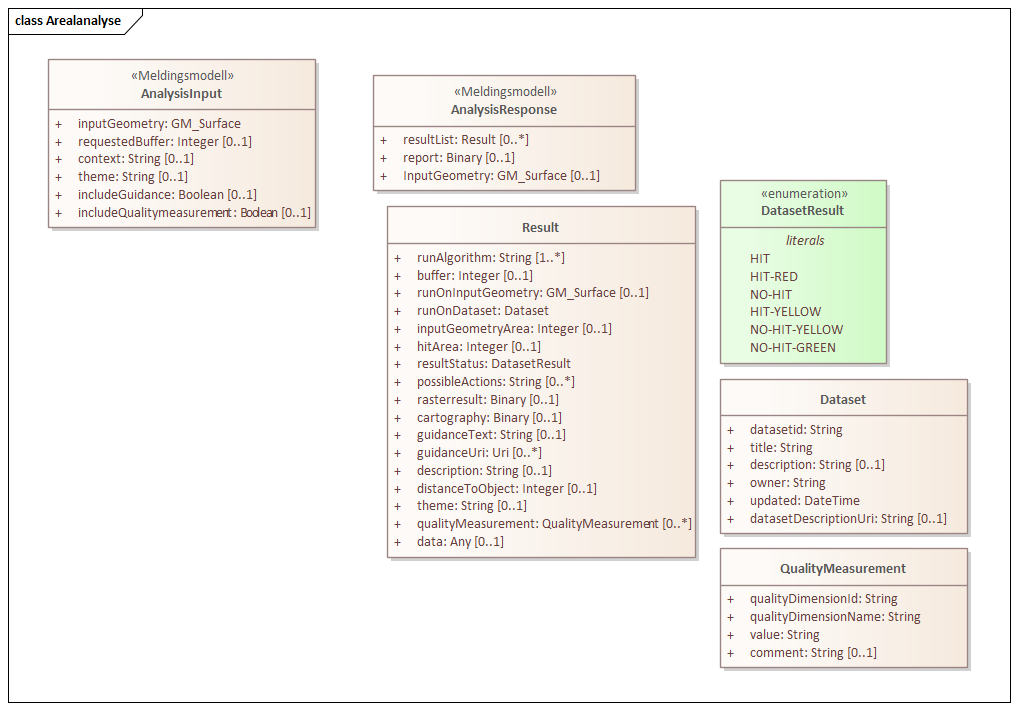
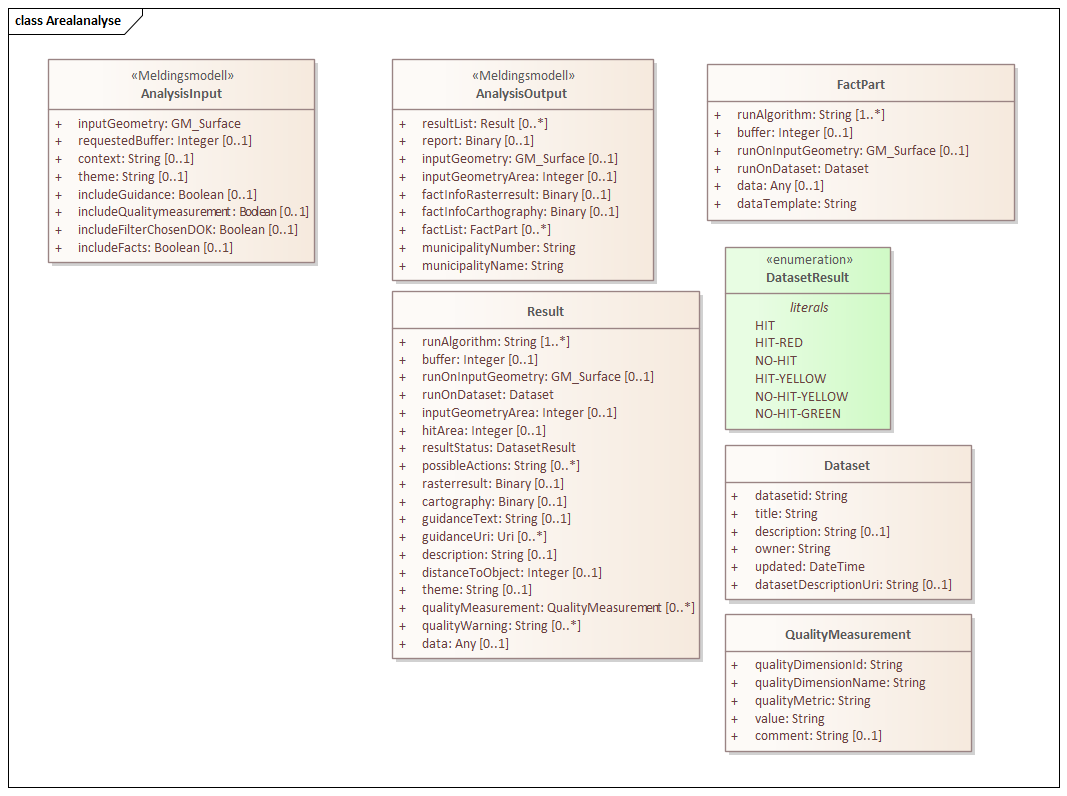
oppdatert dokumentasjon og diagram

diff --git a/spec.md b/spec.md
@@ -221,13 +221,13 @@ output = [no.geonorge.dokanalyse.analysisresponse.v0.1.schema.json](schema/no.ge
 | runOnDataset      | [Dataset](#dataset)   | 1 | kjørtPåDatasett   | Beskrivelse av datasett analysen er kjørt mot.
 | inputGeometryArea | Integer    | 0..1  | områdeareal   | beregner arealet i kvm på valgte område for analyse.
 | hitArea | Integer    | 0..1  | treffareal   | beregner arealet i kvm på datasett som treffer innenfor analyseområdet.
-| resultStatus      | DatasetResult | 1 | statusResultat    | resultat av analysen om det er treff eller ikke treff. (HIT, NO-HIT, HIT-RED, HIT-YELLOW, NO-HIT-YELLOW, NO-HIT-GREEN)
+| resultStatus      | DatasetResult | 1 | statusResultat    | resultat av analysen om det er treff eller ikke treff. (HIT, NO-HIT, HIT-RED, HIT-YELLOW, NO-HIT-YELLOW, NO-HIT-GREEN). Fargene kan brukes for å koble opp mot Grad av konflikt som angis i Geolett veiledningstekst register
 | possibleActions   | String    | 0..*  | muligeTiltak  | liste over mulige tiltak. Kan være hentet fra Geolett register.
-| rasterResult      | Binary    | 0..1  | kartutsnitt   | rasterbilde av data/resultat. Vurdere WMS referanse isteden for base64 string?
-| cartography       | Binary    | 0..1  | tegnforklaring   | viser tegneregler for resultatet. Vurdere WMS referanse isteden for base64 string?
+| rasterResult      | Binary    | 0..1  | kartutsnitt   | rasterbilde av data/resultat eller referanse til WMS.
+| cartography       | Binary    | 0..1  | tegnforklaring   | viser tegneregler for resultatet.
 | guidanceText      | String    | 0..1  | veiledningsTekst   | Kan være hentet fra Geolett register.
-| guidanceUri       | [Uri](#Uri)    | 0..*  | veiledningslenke   | Veiledningsreferanser. Kan være hentet fra Geolett register.
-| description       | String    | 0..1  | forklarendeTekst   | beskrivelse av resultat. Kan være hentet fra Geolett register.
+| guidanceUri       | [Uri](#Uri)    | 0..*  | veiledningslenke   | Veiledningsreferanser. Kan være hentet fra Geolett veiledningstekst register.
+| description       | String    | 0..1  | forklarendeTekst   | beskrivelse av resultat. Kan være hentet fra Geolett veiledningstekst register.
 | distanceToObject  | Integer   | 0..1  | avstandTilObjekt  | nærmeste avstand fra område til objekt. Mest relevant om det ikke er treff innenfor området som forespørres. Anbefaling 83 i teknologisk rammeverk.
 | theme             | String    | 0..1  | tema   | DOK tema for datasettet.
 | qualityMeasurement | [QualityMeasurement](#qualitymeasurement) | 0..* | kvalitetsmåling | liste over relevante kvaliteter slik som fullstendighet (dekningskart), egnethet (fra DOK), etc
@@ -249,10 +249,11 @@ output = [no.geonorge.dokanalyse.analysisresponse.v0.1.schema.json](schema/no.ge
 
 | Navn      | Type | Multiplisitet | Alias | Beskrivelse |
 | ----------- | ----------- | ----------- | ----------- | ----------- |
-| qualityDimensionId      | String   |  1 |  kvalitetsdimensjonId | kvalitetsdimensjoner slik som fullstendighet_dekningskart, egnethet_reguleringsplan, etc.
+| qualityDimensionId      | String   |  1 |  kvalitetsdimensjonId | kvalitetsdimensjoner slik som Fullstendighet, Egenskapskvalitet, Logisk konsistens, Kvalitet på tidfesting, Stedfestingsnøyaktighet, Egnethet, etc.
 | qualityDimensionName     | String   |  1 |  kvalitetsdimensjonNavn | kvalitetsdimensjoner i klart språk.
-| value          | String   | 1  | verdi        | verdi for kvalitetsdimensjon.
-| comment          | String   | 0..1  | kommentar        | kommentar til kvalitetsdimensjon.
+| qualityMetric     | String   |  1 |  kvalitetsmål | brukes til å representere et kvalitetsmål som fullstendighet_dekningskart, egnethet_reguleringsplan, etc.
+| value          | String   | 1  | verdi        | verdi for kvalitetsmåling som feks Ikke kartlagt, Kartlagt med funn for fullstendighet_dekningskart.
+| comment          | String   | 0..1  | kommentar        | kommentar til kvalitetsmåling.
 
 #### Uri
 | Navn      | Type | Multiplisitet | Alias | Beskrivelse |
